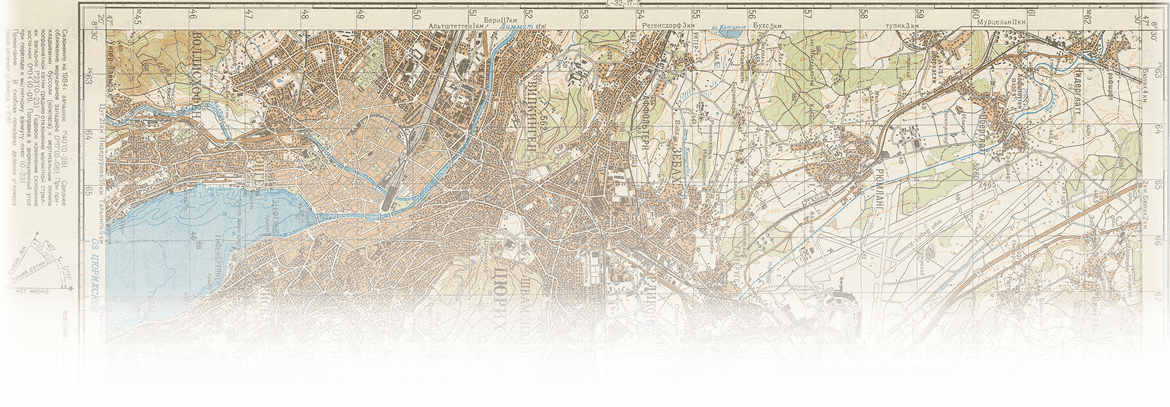
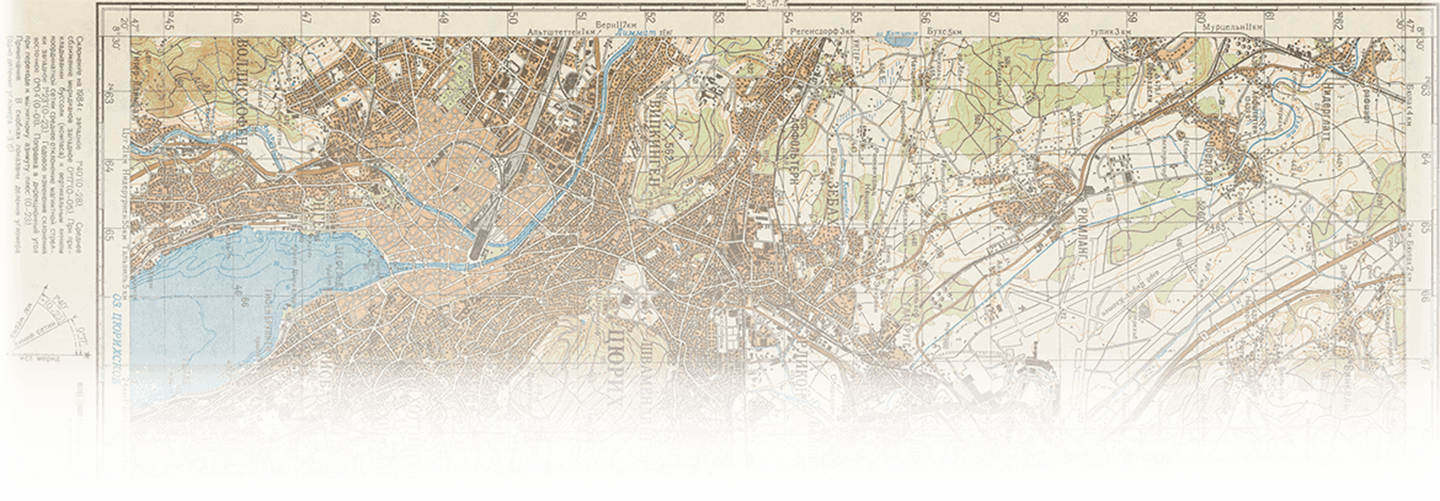
add emitter to bower. span map background from left to right :)

diff --git a/app/styles/main.scss b/app/styles/main.scss
@@ -5,6 +5,9 @@ body {
   >.container{
   	margin-bottom: 3em;
   }
+  background-image: url(../images/area_51.png);
+  background-repeat: no-repeat;
+
 }
 
 table{
@@ -25,15 +28,6 @@ hr{
 	clear: both;
 }
 
-.container{
-	$offsetWidth: 40px;
-	background-clip: border-box;
-    background-position: -#{$offsetWidth} -8px;
-    background-image: url(../images/area_51.png);
-    background-repeat: no-repeat;
-    border-left: $offsetWidth solid transparent;
-    border-right: $offsetWidth solid transparent;
-}
 
 footer{
 	$offsetWidth: 40px;

diff --git a/app/styles/_index.scss b/app/styles/_index.scss
@@ -12,7 +12,10 @@
 		margin-bottom: 0;
 	}
 }
-
+h1{
+	font-size: 3em;
+	margin-bottom: 1em;
+}
 #mainTitle{
 	margin-top: 1.75em;
 	text-align: center;
@@ -21,7 +24,7 @@
 }
 
 #startContent{
-	margin-top: 3em;
+	margin-top: 8em;
 }
 
 #slir > a > img{
